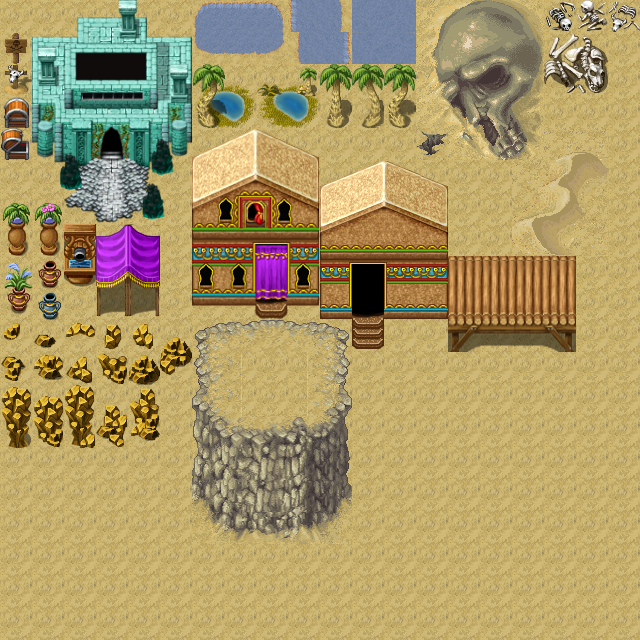
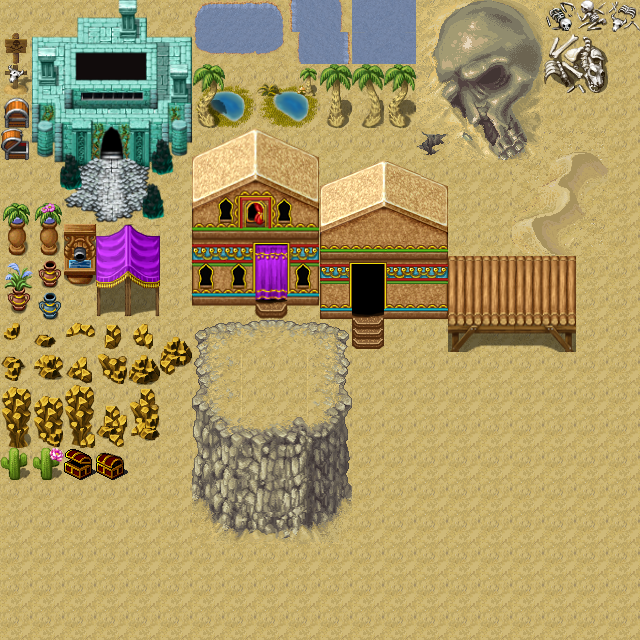
fixed quest parameters

Changed region(s): [[0.0, 0.6875, 0.2188, 0.75]]

diff --git a/Main.js b/Main.js
@@ -73,7 +73,10 @@ ASSET_MANAGER.queueDownload("./imgs/items/stone.png");
 ASSET_MANAGER.queueDownload("./imgs/items/book.png");
 ASSET_MANAGER.queueDownload("./imgs/items/key.png");
 ASSET_MANAGER.queueDownload("./imgs/level_up_icon.png");
-ASSET_MANAGER.getAsset("./imgs/items/sword.gif");
+ASSET_MANAGER.queueDownload("./imgs/items/sword.gif");
+ASSET_MANAGER.queueDownload("./imgs/items/cactus_flower.png");
+ASSET_MANAGER.queueDownload("./imgs/items/staff3.png");
+ASSET_MANAGER.queueDownload("./imgs/items/armor3.png");
 
 ASSET_MANAGER.downloadAll(function () {
     var canvas = document.getElementById("gameworld");
@@ -277,7 +280,7 @@ ASSET_MANAGER.downloadAll(function () {
                                             new Animation(mountain_man_spritesheet, 0, 0, 24, 32, 0.05, 1, true, false),
                                             new Animation(mountain_man_spritesheet, 0, 3, 24, 32, 0.05, 1, true, false),
                                             new Animation(mountain_man_spritesheet, 0, 1, 24, 32, 0.05, 1, true, false), null, null, null);
-    var mountain_man_quest =  new KILL_QUEST(gameEngine, "Hilbert",  "Siren", 1);
+    var mountain_man_quest =  new KILL_QUEST(gameEngine, "Hilbert", null, "Siren", 1);
 
     var mountain_man = new Storekeeper(gameEngine, "Hilbert", [["Well, hello there sonny! I haven't seen a newcomer in these remote parts in some time now.",
                                            "My name is Hilbert, and this here beautiful dwarf is my wife, Eliza.",
@@ -353,7 +356,7 @@ ASSET_MANAGER.downloadAll(function () {
                                                 new Animation(mountain_villager_spritesheet, 0, 3, 32, 32, 0.05, 3, true, false),
                                                 new Animation(mountain_villager_spritesheet, 0, 1, 32, 32, 0.05, 3, true, false),
                                                 new Animation(mountain_villager_spritesheet, 0, 2, 32, 32, 0.05, 3, true, false), null, null, null);
-    var mountain_villager_quest = new KILL_QUEST(gameEngine, "Sherry", "Dire Wolf", 5);
+    var mountain_villager_quest = new KILL_QUEST(gameEngine, "Sherry", null, "Dire Wolf", 5);
     var mountain_villager = new NPC_QUEST(gameEngine, "Sherry", [["HELP!!! HELP!! SOMEONE!!!", "YOU! You there! Are you blind!? Don't you see the wolves around here?!",
                                                                   "Please for the love of all that is good, go kill some wolves and a few of their riders!!",
                                                                   "This village is counting on you!"],
@@ -769,15 +772,15 @@ ASSET_MANAGER.downloadAll(function () {
 
                 [church], [], new Tilesheet("./imgs/tileslevel2.png", 32, 22), [0, 1, 2, 3, 4, 5],
                 [new Chest(3, 8, 4, gameEngine, [new Potion(gameEngine, "Heal Berry", 10, 2, ASSET_MANAGER.getAsset("./imgs/items/heal_berry.png"), "health", 1, "A delicious berry that makes you feel more refreshed."), 400,
-                new Potion(gameEngine, "Potion of Strength", 35, 3, ASSET_MANAGER.getAsset("./imgs/items/potion_str.png"), "str", 2, "A strange red liquid that will make you temporarily stronger!"), ], true),
+                new Potion(gameEngine, "Potion of Strength", 35, 3, ASSET_MANAGER.getAsset("./imgs/items/potion_str.png"), "str", 2, "A strange red liquid that will make you temporarily stronger!") ], true),
                 new Portal(9, 7, 3, gameEngine, EnterDragonCaveFromLevel2), new Portal(6, 10, 1, gameEngine, EnterChurch), new Portal(17, 10, 0, gameEngine, EnterChurch), new Portal(10, 11, 4, gameEngine, Level3)],
                 ["Dire Wolf", "Wolf Rider", "Skeleton"], "level2", "./imgs/mountain.png", 3, [0, 1, 2, 3, 4, 5]);
 
 
 	    var level3 = new OutdoorEnvironment(gameEngine,
                    [[0, 0, 0, 0, 0, 0, 0, 0, 0, 0, 0, 206, 207, 208, 209, 210, 0, 0, 0, 0, 0, 0, 0, 50, 50, 50, 50, 86, 87, 88, 89, 50, 50, 160, 142, 161, 50, 50, 50, 50, 50, 50],
-                   [0, 0, 0, 0, 0, 0, 206, 207, 208, 209, 210, 226, 227, 228, 229, 230, 0, 0, 0, 0, 0, 0, 0, 70, 70, 70, 70, 106, 107, 108, 109, 70, 70, 180, 162, 181, 70, 70, 70, 70, 70, 70],
-                   [0, 206, 207, 208, 209, 210, 226, 227, 228, 229, 230, 246, 247, 248, 249, 250, 0, 0, 0, 0, 0, 0, 0, 0, 0, 0, 0, 126, 127, 128, 129, 0, 0, 0, 0, 0, 0, 120, 110, 111, 112, 113],
+                   [0, 0, 0, 0, 0, 283, 206, 207, 208, 209, 210, 226, 227, 228, 229, 230, 0, 0, 0, 0, 0, 0, 0, 70, 70, 70, 70, 106, 107, 108, 109, 70, 70, 180, 162, 181, 70, 70, 70, 70, 70, 70],
+                   [0, 206, 207, 208, 209, 210, 226, 227, 228, 229, 230, 246, 247, 248, 249, 250, 0, 0, 0, 0, 281, 281, 0, 0, 0, 0, 0, 126, 127, 128, 129, 0, 0, 0, 0, 0, 0, 120, 110, 111, 112, 113],
                    [0, 226, 227, 228, 229, 230, 246, 247, 248, 249, 250, 266, 267, 268, 269, 270, 0, 0, 6, 7, 7, 7, 7, 7, 7, 8, 0, 146, 147, 148, 149, 0, 0, 0, 0, 0, 0, 140, 130, 131, 132, 133],
                    [0, 246, 247, 248, 249, 250, 266, 267, 268, 269, 270, 286, 287, 288, 289, 290, 0, 0, 9, 11, 27, 27, 27, 27, 12, 30, 0, 166, 167, 168, 169, 0, 0, 6, 8, 0, 0, 121, 150, 151, 152, 153],
                    [0, 266, 267, 268, 269, 270, 286, 287, 288, 289, 290, 306, 307, 308, 309, 310, 0, 0, 9, 30, 46, 47, 0, 0, 9, 30, 0, 186, 187, 188, 189, 0, 0, 9, 30, 0, 0, 120, 190, 191, 192, 193],
@@ -789,18 +792,24 @@ ASSET_MANAGER.downloadAll(function () {
                    [116, 117, 118, 0, 9, 11, 27, 27, 27, 27, 27, 27, 27, 27, 194, 195, 196, 197, 27, 28, 52, 51, 50, 72, 0, 0, 70, 0, 0, 0, 0, 0, 0, 70, 0, 0, 0, 183, 184, 180, 183, 184],
                    [136, 137, 138, 0, 9, 30, 20, 20, 0, 0, 0, 0, 0, 0, 214, 215, 216, 217, 0, 0, 72, 71, 70, 0, 0, 0, 0, 0, 0, 0, 0, 0, 0, 0, 0, 0, 0, 242, 0, 0, 0, 0],
                    [156, 157, 158, 0, 9, 30, 0, 0, 0, 0, 37, 38, 0, 0, 0, 0, 0, 0, 0, 0, 0, 0, 0, 0, 0, 0, 0, 0, 0, 0, 0, 0, 0, 242, 224, 244, 243, 262, 241, 240, 240, 0],
-                   [0, 0, 0, 0, 9, 30, 0, 0, 0, 0, 57, 58, 0, 0, 0, 19, 0, 0, 0, 0, 0, 0, 0, 0, 0, 0, 0, 0, 0, 0, 0, 240, 244, 262, 241, 264, 263, 203, 261, 260, 260, 222],
-                   [0, 0, 0, 0, 9, 30, 0, 0, 40, 0, 0, 0, 13, 14, 15, 16, 18, 0, 0, 40, 0, 0, 0, 0, 201, 0, 0, 240, 0, 202, 242, 260, 264, 242, 261, 0, 2, 3, 4, 5, 0, 242],
+                   [283, 0, 0, 0, 9, 30, 0, 0, 0, 0, 57, 58, 0, 0, 0, 19, 0, 0, 0, 0, 0, 0, 0, 0, 0, 0, 0, 0, 0, 0, 0, 240, 244, 262, 241, 264, 263, 203, 261, 260, 260, 222],
+                   [0, 281, 281, 0, 9, 30, 0, 0, 40, 0, 0, 0, 13, 14, 15, 16, 18, 0, 0, 40, 0, 0, 0, 0, 201, 0, 0, 240, 0, 202, 242, 260, 264, 242, 261, 0, 2, 3, 4, 5, 0, 242],
                    [7, 7, 7, 7, 32, 30, 0, 40, 40, 40, 0, 0, 33, 34, 35, 36, 17, 0, 40, 40, 40, 0, 0, 0, 0, 0, 244, 260, 201, 204, 262, 241, 0, 262, 220, 21, 22, 23, 24, 25, 202, 263],
                    [27, 27, 27, 27, 27, 28, 0, 0, 40, 0, 0, 19, 53, 54, 55, 56, 37, 38, 0, 40, 0, 0, 0, 0, 241, 203, 264, 0, 200, 240, 223, 261, 244, 240, 0, 41, 42, 43, 44, 45, 0, 241],
-                   [0, 0, 0, 0, 0, 0, 0, 0, 40, 0, 17, 17, 73, 74, 75, 76, 57, 58, 0, 40, 0, 0, 0, 204, 261, 0, 202, 200, 0, 260, 0, 202, 264, 260, 0, 61, 62, 63, 64, 65, 201, 261],
-                   [0, 0, 0, 0, 0, 0, 0, 0, 0, 0, 0, 18, 93, 94, 95, 96, 0, 18, 0, 0, 0, 0, 200, 0, 0, 0, 0, 97, 98, 0, 0, 201, 242, 201, 200, 81, 82, 83, 84, 85, 0, 0],
+                   [0, 281, 0, 0, 0, 0, 0, 0, 40, 0, 17, 17, 73, 74, 75, 76, 57, 58, 0, 40, 0, 0, 0, 204, 261, 0, 202, 200, 0, 260, 0, 202, 264, 260, 0, 61, 62, 63, 64, 65, 201, 261],
+                   [0, 0, 0, 0, 0, 0, 0, 0, 0, 0, 0, 18, 93, 94, 95, 96, 0, 18, 0, 0, 0, 0, 200, 0, 0, 0, 0, 97, 98, 0, 0, 201, 242, 201, 200, 81, 82, 83, 84, 85, 0, 283],
                    [0, 0, 0, 0, 0, 0, 0, 0, 0, 0, 0, 0, 0, 0, 0, 0, 0, 0, 17, 0, 0, 0, 0, 0, 0, 0, 116, 117, 118, 0, 0, 0, 252, 0, 0, 101, 102, 103, 104, 105, 221, 0],
                    [0, 0, 0, 0, 0, 0, 0, 0, 0, 0, 0, 0, 19, 0, 0, 0, 0, 0, 0, 0, 0, 0, 0, 0, 0, 0, 136, 137, 138, 0, 0, 0, 0, 0, 0, 0, 122, 123, 124, 125, 0, 0],
                    [0, 0, 0, 0, 0, 0, 0, 0, 0, 0, 0, 0, 0, 0, 0, 0, 0, 0, 0, 0, 0, 0, 0, 0, 0, 0, 156, 157, 158, 0, 240, 0, 0, 0, 0, 0, 0, 0, 0, 0, 0, 0],
                    [0, 0, 0, 0, 0, 0, 0, 0, 0, 0, 0, 0, 0, 0, 0, 0, 0, 0, 0, 0, 0, 0, 0, 0, 0, 0, 0, 0, 0, 0, 260, 200, 202, 204, 0, 0, 0, 0, 0, 0, 0, 0]],
                     [], [], new Tilesheet("./imgs/maplevel3.png", 32, 20), [0, 1, 2, 3, 4, 5],
-                   [new Portal(0,7,3, gameEngine, Level2)], ["Skeleton", "Malboro", "Ogre"], "level3", "./imgs/desert.png", 0, [1, 2, 4, 5]);
+                   [new Portal(0, 7, 3, gameEngine, Level2), new CactusFlower(1, 4, 3, gameEngine), new CactusFlower(2, 4, 3, gameEngine), new CactusFlower(1, 7, 3, gameEngine), new CactusFlower(8, 2, 1, gameEngine),
+                    new CactusFlower(9, 2, 1, gameEngine), new Chest(18, 8, 1, gameEngine, [new Potion(gameEngine, "Heal Berry", 10, 2, ASSET_MANAGER.getAsset("./imgs/items/heal_berry.png"), "health", 1, "A delicious berry that makes you feel more refreshed."), 55], true),
+                   new Chest(5, 1, 0, gameEngine, [new Potion(gameEngine, "Potion of Strength", 35, 3, ASSET_MANAGER.getAsset("./imgs/items/potion_str.png"), "str", 2, "A strange red liquid that will make you temporarily stronger!"), 455], false),
+                   new Chest(18, 8, 5, gameEngine, [new Armor(gameEngine, "Blessed Staff", 320, ASSET_MANAGER.getAsset("./imgs/items/staff3.png"), "mainhand", new Statistics(0, 15, 0, 0, 0, 6), "A golden rod that seems to radiate a holy aura.")], true),
+                   new Chest(0, 3, 3, gameEngine, [new Armor(gameEngine, "Sword of Protection", 355, ASSET_MANAGER.getAsset("./imgs/items/sword2.png"), "mainhand", new Statistics(0, 20, 20, 5, 0, 0), "A powerful, shiny, exotic, desert-like sword."),
+                    new Armor(gameEngine, "Golden Shiny Armor", 420, ASSET_MANAGER.getAsset("./imgs/items/armor3.png"), "armor", new Statistics(0, 0, 30, 5, 10, 0), "Shiny, sexy, and hopefully blinding armor.")], true)],
+                    ["Skeleton", "Malboro", "Ogre"], "level3", "./imgs/desert.png", 0, [1, 2, 4, 5]);
 
 
 

diff --git a/GameEngine.js b/GameEngine.js
@@ -2419,6 +2419,7 @@ NPC.prototype.updateDialogue = function () {
                     gameEngine.heroes.push(mage_hero);
                     //this.game.entities[0].inventory.names[1].found = true; 
                     gameEngine.entities[0].inventory.names[1].found = true;
+                    this.game.entities[0].inventory.draw();
                     this.x = 3098204981238;
                     this.y = 384923784928374;
                 } else if (this.part === 0) {
@@ -3152,6 +3153,8 @@ Chest.prototype.startInteraction = function () {
                 this.game.environment[this.game.current_environment].map[loc_point.y][loc_point.x] = 2;
             } else if (this.game.current_environment === "church") {
                 this.game.environment[this.game.current_environment].map[1][loc_point.y][loc_point.x] = 64;
+            } else if (this.game.current_environment === "level3") {
+                this.game.environment[this.game.current_environment].map[loc_point.y][loc_point.x] = 282;
             }
         }
     }
@@ -3190,7 +3193,7 @@ Chest.prototype.lootChest = function () {
 
 HealBerry = function (x, y, quad, game) {
     this.picked = false;
-    this.berry = new Potion(this.game, "Heal Berry", 10, 1, ASSET_MANAGER.getAsset("./imgs/items/heal_berry.png"), "health", 1, "Heals your HP");
+    this.berry = new Potion(this.game, "Heal Berry", 10, 1, ASSET_MANAGER.getAsset("./imgs/items/heal_berry.png"), "health", 1, "A delicious berry that makes you feel more refreshed.");
 
     Interactable.call(this, x, y, quad, game);
 }
@@ -3210,6 +3213,32 @@ HealBerry.prototype.startInteraction = function () {
             this.game.environment[this.game.current_environment].map[loc_point.y][loc_point.x] = 134;
         } else {
             this.game.alertHero("You've already picked the berries off of this plant.");
+        }
+    }
+}
+
+CactusFlower = function (x, y, quad, game) {
+    this.picked = false;
+    this.flower = new Potion(this.game, "Cactus Flower", 50, 1, ASSET_MANAGER.getAsset("./imgs/items/cactus_flower.png"), "attack", 1, "A sweet smelling flower that makes you feel invigorated.");
+
+    Interactable.call(this, x, y, quad, game);
+}
+
+CactusFlower.prototype = new Interactable();
+CactusFlower.prototype.constructor = CactusFlower;
+
+CactusFlower.prototype.startInteraction = function () {
+    if (Interactable.prototype.startInteraction.call(this)) {
+        var x = this.x / 32;
+        var y = this.y / 32;
+        var loc_point = this.game.changeXYForQuad(new Point(x, y), this.game.environment[this.game.current_environment].curr_quadrant);
+
+        if (!this.picked) {
+            this.game.entities[0].recieveItem(this.flower);
+            this.picked = true;
+            this.game.environment[this.game.current_environment].map[loc_point.y][loc_point.x] = 280;
+        } else {
+            this.game.alertHero("You've already picked the flower off of this cactus.");
         }
     }
 }
